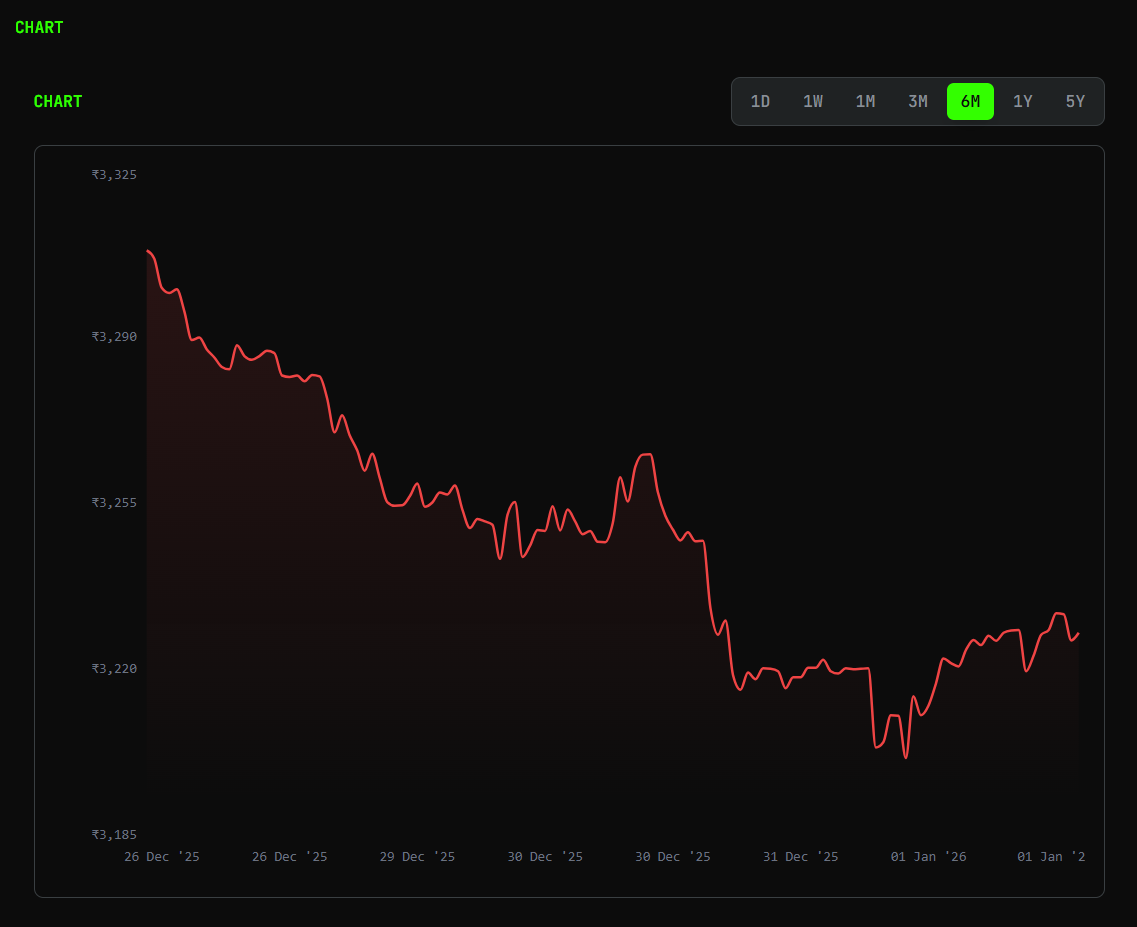
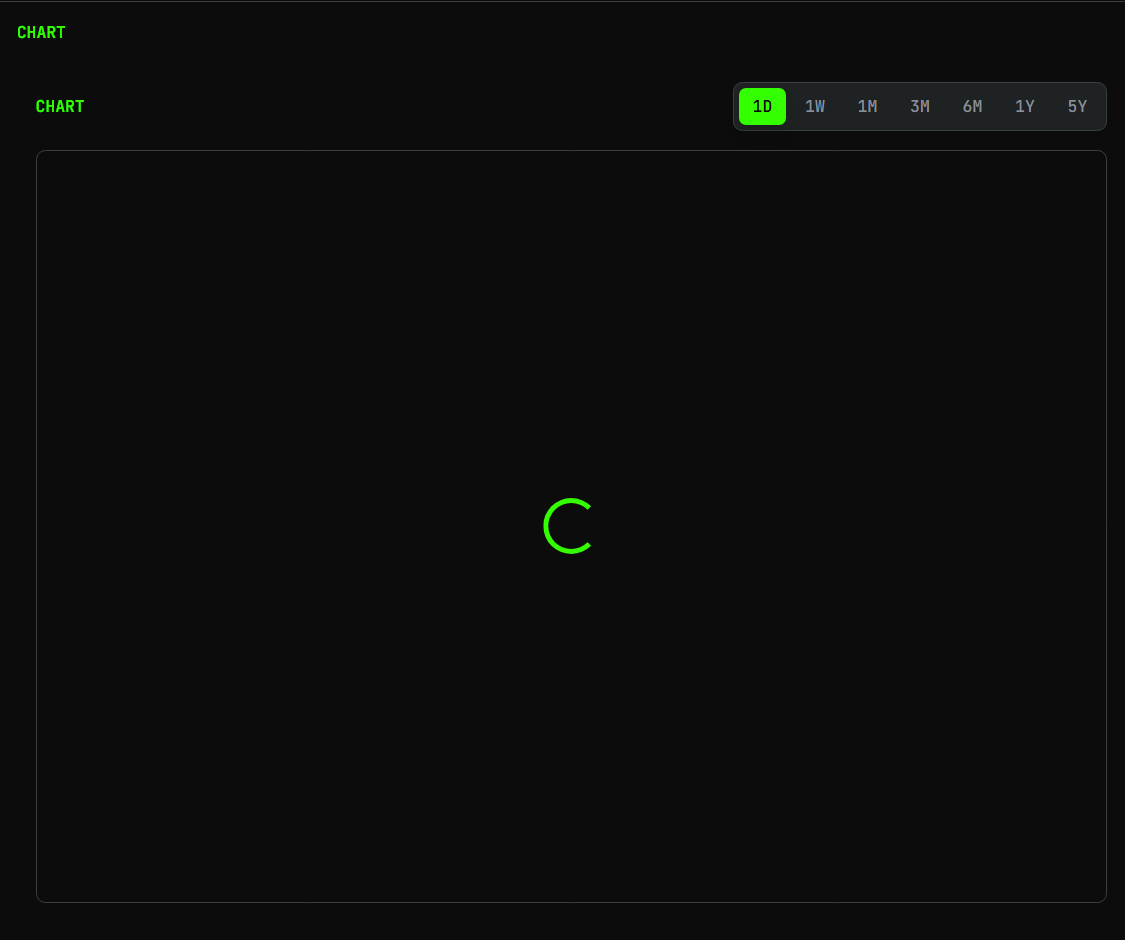
Message 351236114210913 - 1767304454

diff --git a/marketzen/src/components/charts/ChartWrapper.jsx b/marketzen/src/components/charts/ChartWrapper.jsx
@@ -1,8 +1,8 @@
-import { useState, useEffect, useMemo, memo } from 'react'
+import { useState, useEffect, useMemo, useCallback, memo } from 'react'
 import { motion } from 'framer-motion'
 import { ResponsiveContainer, AreaChart, Area, XAxis, YAxis, Tooltip } from 'recharts'
 
-// Timeframe constants
+// Timeframe constants - matches Yahoo Finance API
 export const TIMEFRAMES = [
   { label: '1D', value: '1D', range: '1d', interval: '5m' },
   { label: '1W', value: '1W', range: '5d', interval: '15m' },
@@ -19,6 +19,16 @@ const MONTH_ABBREVIATIONS = {
   'September': 'Sep', 'October': 'Oct', 'November': 'Nov', 'December': 'Dec'
 }
 
+// Yahoo Finance API configuration
+const YAHOO_BASE = 'https://query1.finance.yahoo.com/v8/finance/chart'
+const CORS_PROXIES = [
+  'https://corsproxy.io/?',
+  'https://justfetch.itsvg.in/?url=',
+  'https://api.allorigins.win/raw?url=',
+  'https://corsproxy.pages.dev/?',
+  'https://proxy.cors.sh/'
+]
+
 // Format currency for display
 function formatCurrency(value) {
   if (!value && value !== 0) return 'N/A'
@@ -27,30 +37,6 @@ function formatCurrency(value) {
     currency: 'INR',
     minimumFractionDigits: 2
   }).format(value)
-}
-
-// Filter data based on timeframe using actual dates from the data
-function filterDataByTimeframe(data, timeframe) {
-  if (!data || data.length === 0) return []
-  
-  const now = new Date()
-  const days = {
-    '1D': 1,
-    '1W': 7,
-    '1M': 30,
-    '3M': 90,
-    '6M': 180,
-    '1Y': 365,
-    '5Y': 1825
-  }[timeframe.value] || 30
-  
-  const cutoffDate = new Date(now)
-  cutoffDate.setDate(cutoffDate.getDate() - days)
-  
-  return data.filter(item => {
-    const itemDate = new Date(item.timestamp || item.date)
-    return itemDate >= cutoffDate
-  })
 }
 
 // Format date label for x-axis
@@ -149,38 +135,93 @@ const StockChartInner = memo(function StockChartInner({ data, isPositive, showFu
   )
 })
 
-// Main Chart Wrapper Component - Uses real data from parent
-function ChartWrapper({ stock, chartData, showFundamentalsPanel }) {
+// Main Chart Wrapper Component - Fetches its own data based on timeframe
+function ChartWrapper({ stock, showFundamentalsPanel }) {
   const [selectedTimeframe, setSelectedTimeframe] = useState(TIMEFRAMES[3]) // Default to 3M
+  const [chartData, setChartData] = useState([])
+  const [loading, setLoading] = useState(true)
+  const [error, setError] = useState(null)
 
-  // Process and format chart data based on selected timeframe
-  const processedData = useMemo(() => {
-    if (!chartData || chartData.length === 0) return []
-    
-    // Filter data based on timeframe
-    const filteredData = filterDataByTimeframe(chartData, selectedTimeframe)
-    
-    // Format the data for display
-    return filteredData.map(item => {
-      const date = new Date(item.timestamp || item.date)
-      
-      // For intraday (1D, 1W), show time
-      if (selectedTimeframe.value === '1D' || selectedTimeframe.value === '1W') {
-        return {
-          time: formatTimeLabel(date),
-          price: item.price,
-          timestamp: item.timestamp || item.date
+  // Fetch chart data from Yahoo Finance based on selected timeframe
+  const fetchChartData = useCallback(async (stockId, timeframe) => {
+    if (!stockId) return
+
+    setLoading(true)
+    setError(null)
+
+    try {
+      const url = `${YAHOO_BASE}/${stockId}?range=${timeframe.range}&interval=${timeframe.interval}`
+
+      const tryFetchWithProxy = async (proxyIndex = 0) => {
+        if (proxyIndex >= CORS_PROXIES.length) {
+          throw new Error('All proxies failed')
+        }
+
+        const proxy = CORS_PROXIES[proxyIndex]
+
+        try {
+          const response = await fetch(`${proxy}${encodeURIComponent(url)}`, {
+            headers: {
+              'User-Agent': 'Mozilla/5.0 (Windows NT 10.0; Win64; x64) AppleWebKit/537.36',
+              'Accept': 'application/json'
+            }
+          })
+
+          if (!response.ok) throw new Error(`HTTP ${response.status}`)
+          return await response.json()
+        } catch (err) {
+          return tryFetchWithProxy(proxyIndex + 1)
         }
       }
-      
-      // For daily data, show date
-      return {
-        time: formatDateLabel(date),
-        price: item.price,
-        timestamp: item.timestamp || item.date
+
+      const data = await tryFetchWithProxy()
+
+      if (data.chart?.result?.[0]) {
+        const result = data.chart.result[0]
+        const quote = result.indicators?.quote?.[0] || {}
+        const timestamps = result.timestamp || []
+        const prices = quote.close || []
+
+        const transformed = timestamps.map((ts, i) => {
+          const price = prices[i]
+          if (price === null || price === undefined) return null
+
+          const date = new Date(ts * 1000)
+
+          // Format label based on timeframe
+          let timeLabel
+          if (timeframe.value === '1D' || timeframe.value === '1W') {
+            timeLabel = formatTimeLabel(date)
+          } else {
+            timeLabel = formatDateLabel(date)
+          }
+
+          return {
+            time: timeLabel,
+            price: price,
+            timestamp: ts
+          }
+        }).filter(Boolean)
+
+        setChartData(transformed)
+      } else {
+        throw new Error('No data available')
       }
-    })
-  }, [chartData, selectedTimeframe])
+    } catch (err) {
+      console.error('Error fetching chart data:', err)
+      setError('Unable to fetch chart data')
+      setChartData([])
+    } finally {
+      setLoading(false)
+    }
+  }, [])
+
+  // Fetch data when timeframe or stock changes
+  useEffect(() => {
+    if (stock?.id) {
+      fetchChartData(stock.id, selectedTimeframe)
+    }
+  }, [stock?.id, selectedTimeframe, fetchChartData])
 
   // Calculate if price is positive
   const isPositive = stock && stock.current_price >= stock.previous_close
@@ -207,20 +248,41 @@ function ChartWrapper({ stock, chartData, showFundamentalsPanel }) {
         />
       </div>
 
+      {/* Error Message */}
+      {error && (
+        <div className="flex-1 flex items-center justify-center border border-terminal-border rounded-lg bg-terminal-panel">
+          <div className="text-center">
+            <p className="text-negative mb-2 font-mono text-sm">{error}</p>
+            <motion.button
+              whileHover={{ scale: 1.05 }}
+              whileTap={{ scale: 0.95 }}
+              onClick={() => fetchChartData(stock?.id, selectedTimeframe)}
+              className="px-3 py-1 rounded border border-terminal-border text-terminal-dim hover:text-terminal-text text-sm"
+            >
+              Retry
+            </motion.button>
+          </div>
+        </div>
+      )}
+
+      {/* Loading State */}
+      {loading && !error && (
+        <div className="flex-1 flex items-center justify-center border border-terminal-border rounded-lg bg-terminal-panel">
+          <motion.div
+            animate={{ rotate: 360 }}
+            transition={{ duration: 1, repeat: Infinity, ease: 'linear' }}
+            className="w-12 h-12 border-4 border-terminal-green border-t-transparent rounded-full"
+          />
+        </div>
+      )}
+
       {/* Chart */}
-      {processedData.length > 0 ? (
+      {!loading && !error && (
         <StockChartInner
-          data={processedData}
+          data={chartData}
           isPositive={isPositive}
           showFundamentalsPanel={showFundamentalsPanel}
         />
-      ) : (
-        <div className="flex-1 flex items-center justify-center border border-terminal-border rounded-lg bg-terminal-panel">
-          <div className="text-center">
-            <p className="text-terminal-dim mb-2 font-mono text-sm">No chart data available</p>
-            <p className="text-xs text-terminal-dim/50 font-mono">Try selecting a different timeframe</p>
-          </div>
-        </div>
       )}
     </div>
   )
@@ -228,8 +290,6 @@ function ChartWrapper({ stock, chartData, showFundamentalsPanel }) {
 
 // Export memoized version with custom comparison
 export default memo(ChartWrapper, (prevProps, nextProps) => {
-  // Only re-render if stock.id or chartData changes
-  return prevProps.stock?.id === nextProps.stock?.id && 
-         prevProps.chartData === nextProps.chartData &&
-         prevProps.showFundamentalsPanel === nextProps.showFundamentalsPanel
+  // Re-render if stock.id changes (but not when showFundamentalsPanel changes)
+  return prevProps.stock?.id === nextProps.stock?.id
 })

diff --git a/marketzen/src/App.jsx b/marketzen/src/App.jsx
@@ -1372,11 +1372,10 @@ function AppContent() {
                             )}
                           </div>
                           
-                          {/* Chart Container - Isolated Chart Wrapper */}
+                          {/* Chart Container - Chart Wrapper fetches its own data */}
                           {!multiChartMode ? (
                             <ChartWrapper
                               stock={stockData}
-                              chartData={chartData}
                               showFundamentalsPanel={showFundamentalsPanel}
                             />
                           ) : (
